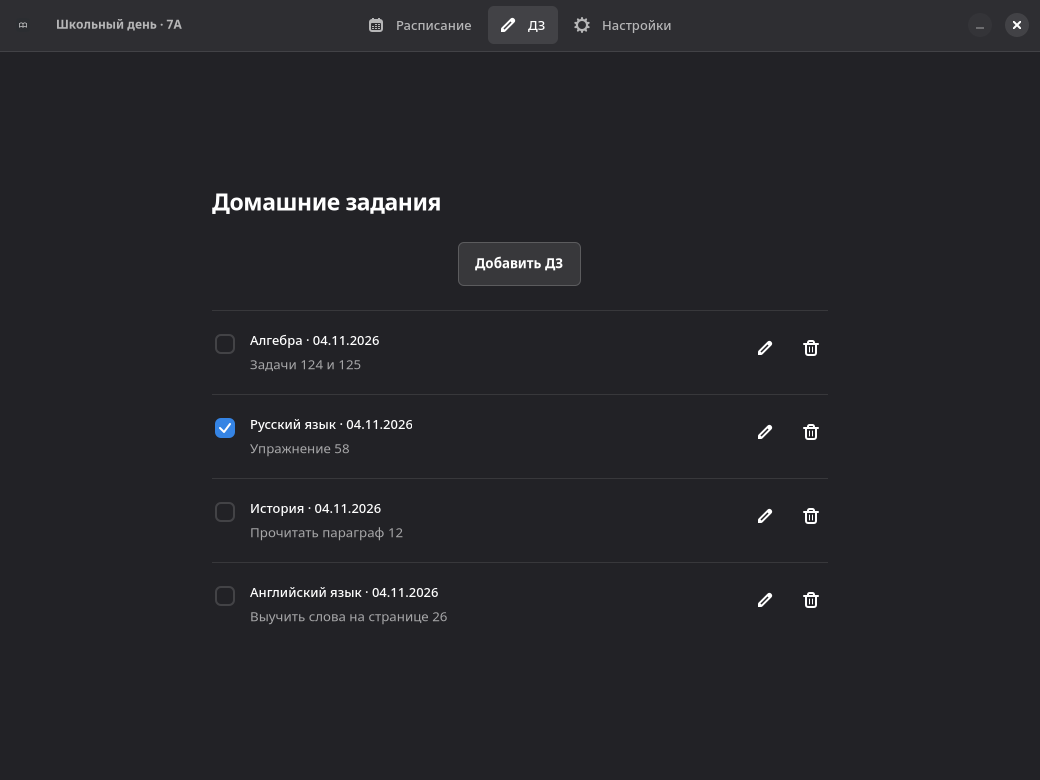
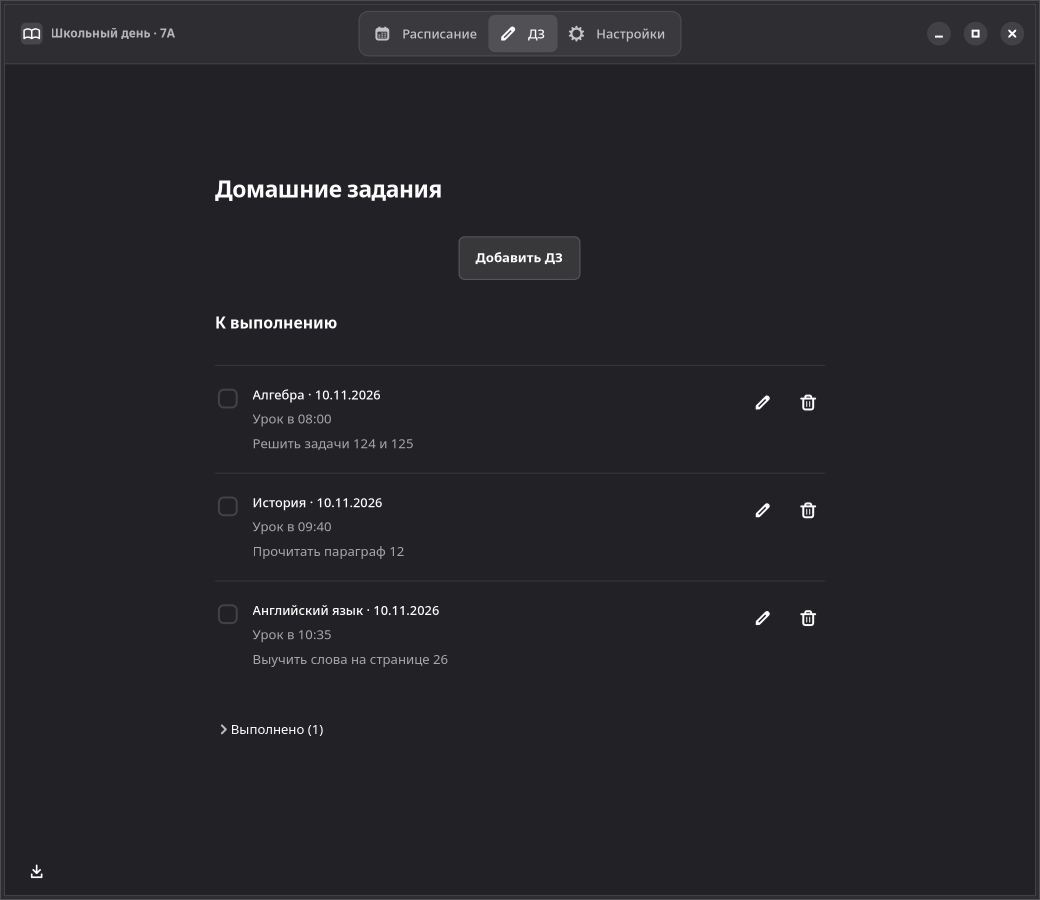
Обновить скриншоты README для версии 0.5.0

diff --git a/README.md b/README.md
@@ -4,14 +4,14 @@
 
 Бесплатная программа с открытым исходным кодом для управления расписанием уроков и домашними заданиями.
 
-![Расписание](docs/screenshots/schedule.png)
+![Расписание — Школьный день 0.5.0](docs/screenshots/schedule.png)
 
 <details>
 <summary>Ещё скриншоты</summary>
 
-![Домашние задания](docs/screenshots/homework.png)
+![Домашние задания — Школьный день 0.5.0](docs/screenshots/homework.png)
 
-![Настройки](docs/screenshots/settings.png)
+![Настройки — Школьный день 0.5.0](docs/screenshots/settings.png)
 
 </details>
 
